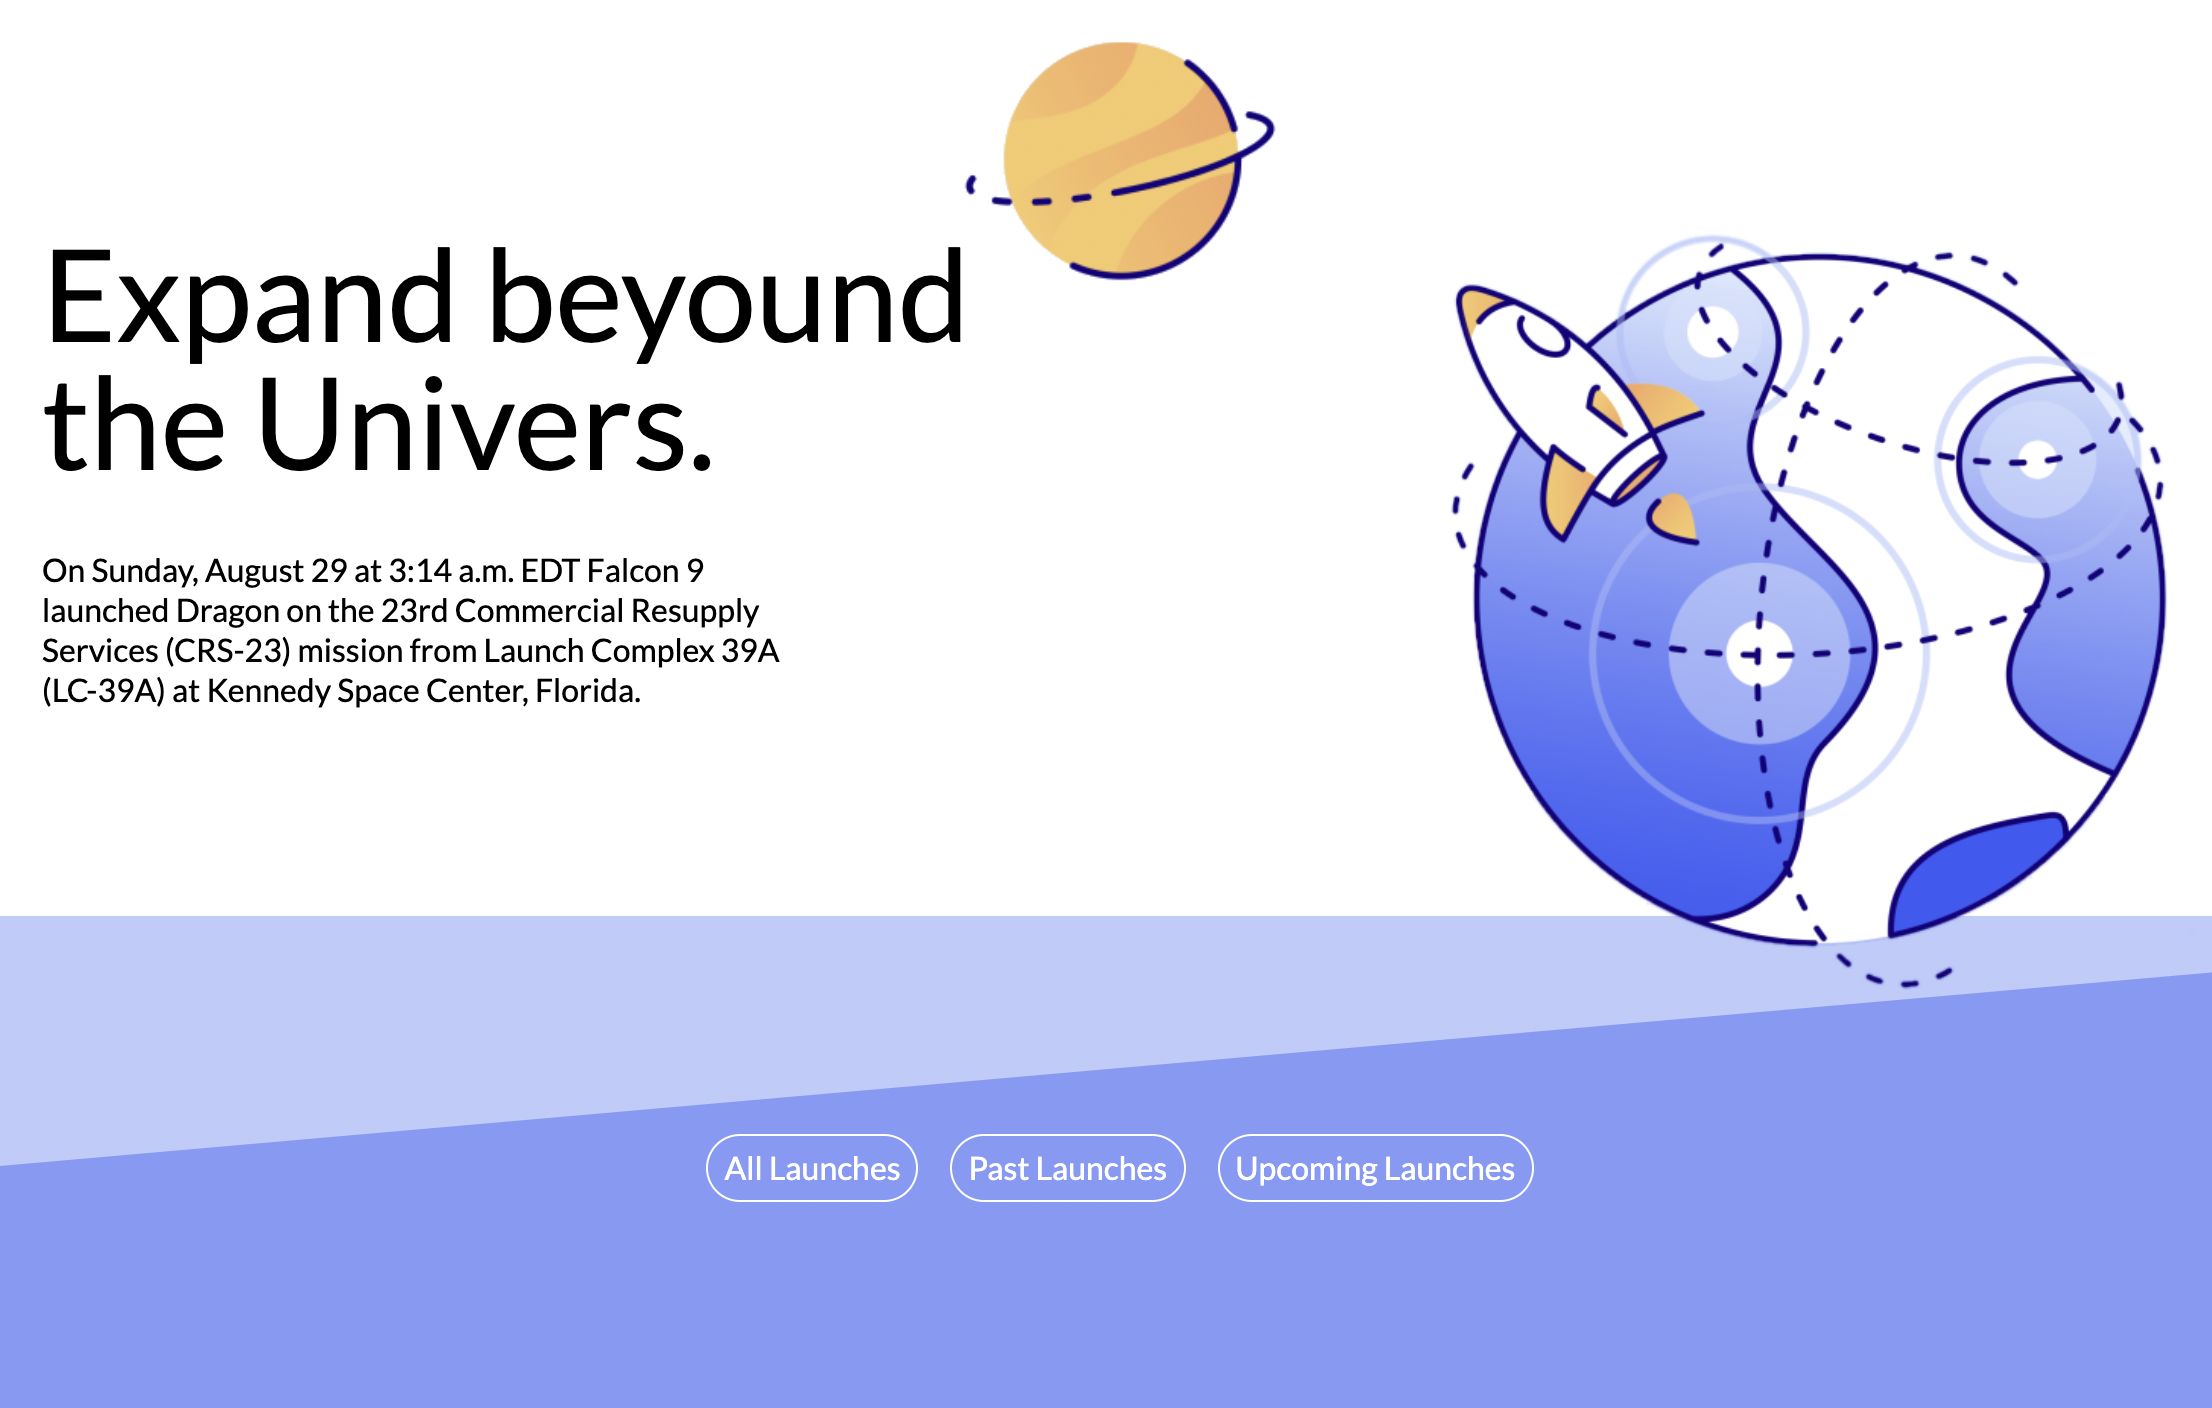
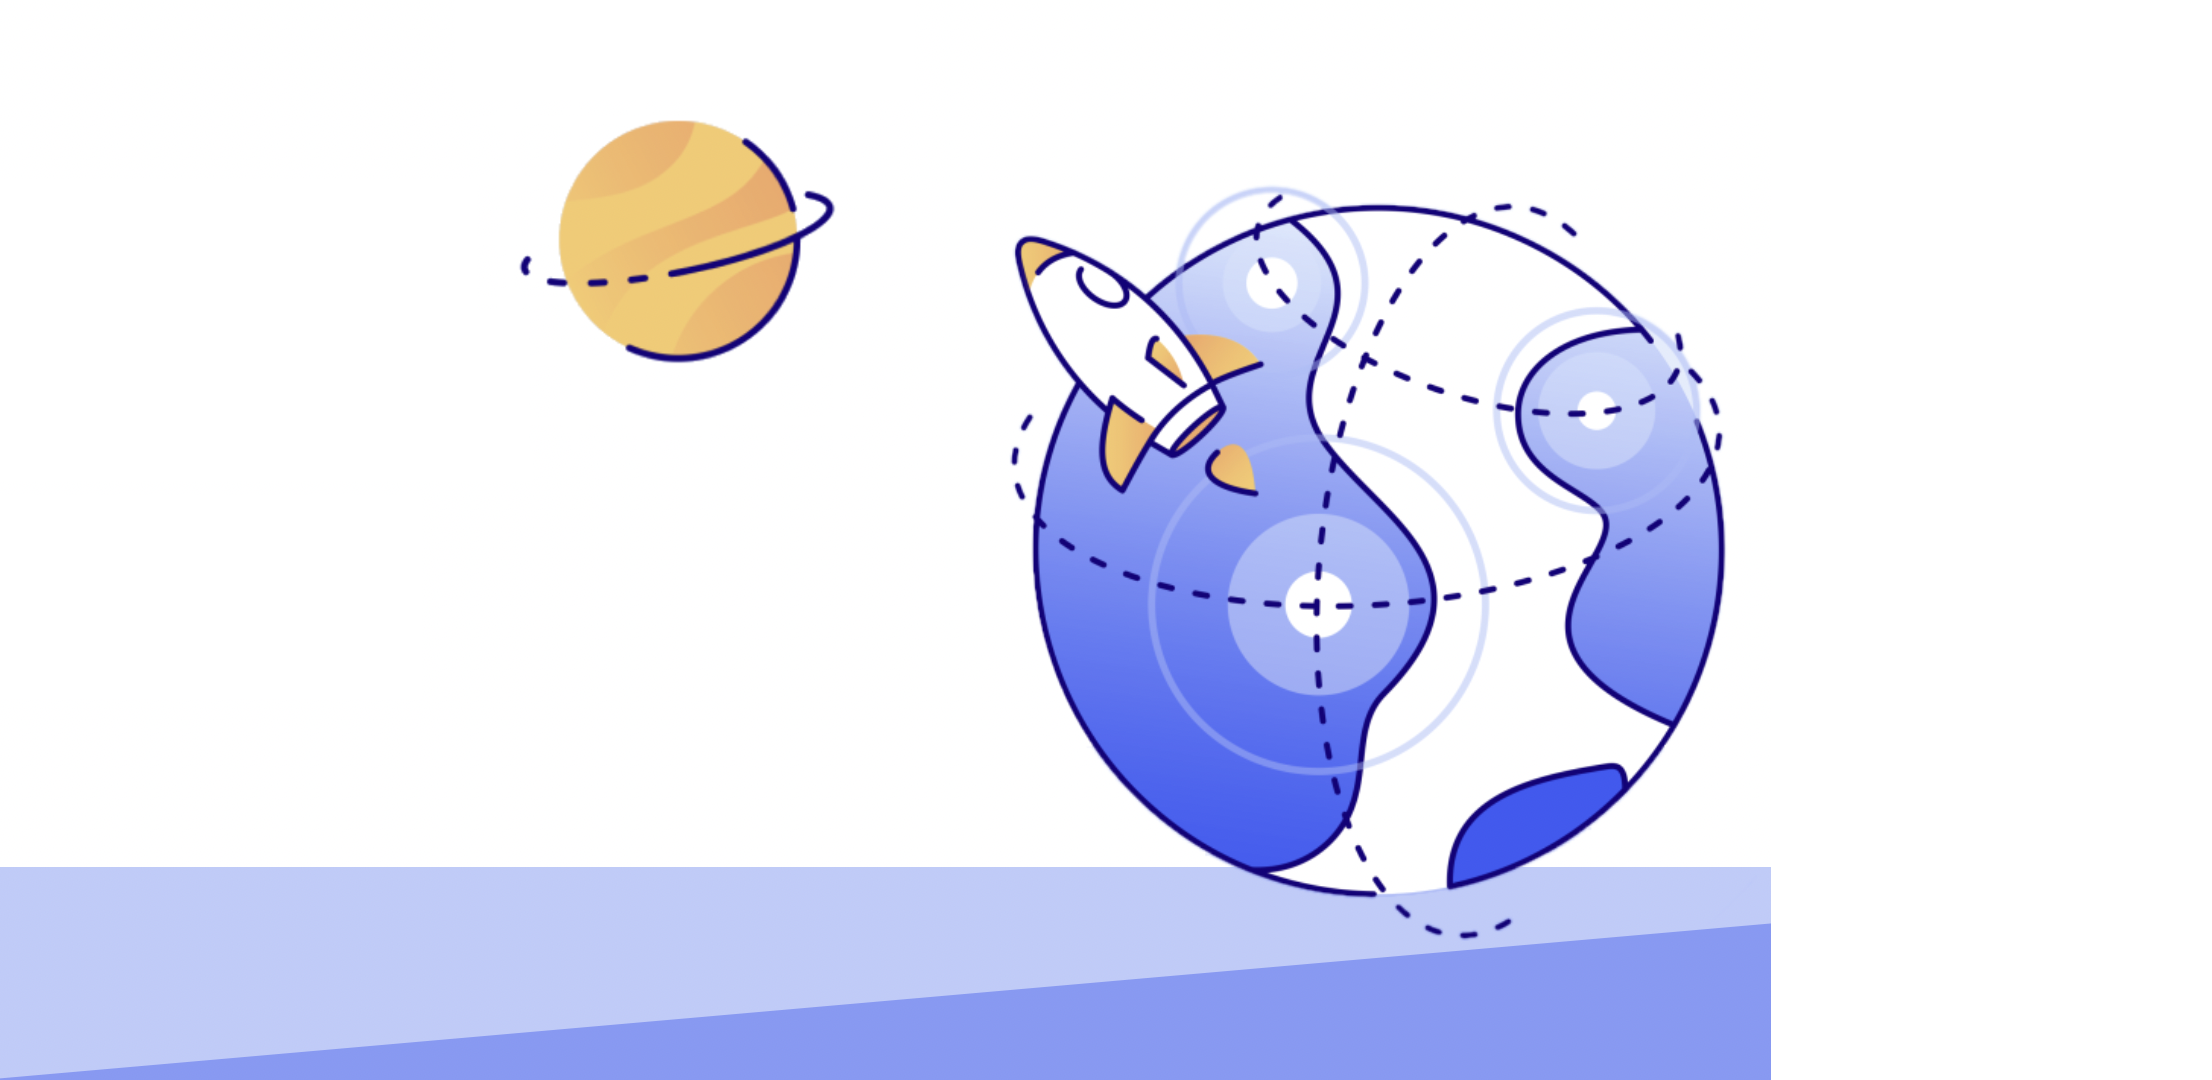
Updates personal location, timezone, and content

diff --git a/src/portal/pages.js b/src/portal/pages.js
@@ -14,7 +14,7 @@ function useLocalClock() {
     const update = () => {
       setTime(
         new Intl.DateTimeFormat("en-GB", {
-          timeZone: "Europe/Amsterdam",
+          timeZone: "Europe/Berlin",
           hour: "2-digit",
           minute: "2-digit",
           hour12: false
@@ -47,15 +47,15 @@ export function HomePage() {
       <section className="home-hero">
         <div className="availability-line">
           <span className="availability-dot" />
-          <span>Frontend engineer in the Netherlands</span>
-          <span className="local-time">AMS {time}</span>
+          <span>Frontend engineer in the Berlin</span>
+          <span className="local-time">BER {time}</span>
         </div>
         <div className="hero-title-wrap">
           <p className="hero-index">Portfolio / 2026</p>
           <h1>
             I build digital
             <br />
-            things people <em>want</em>
+            things people <br /><em>want</em>
             <br />
             to explore.
           </h1>
@@ -68,7 +68,7 @@ export function HomePage() {
         </div>
         <div className="hero-bottom">
           <p>
-            I&apos;m Saber Pourrahimi—an engineer who turns product ideas into
+            I&apos;m Saber Pourrahimi an engineer who turns product ideas into
             clear, responsive, and slightly unexpected web experiences.
           </p>
           <div className="hero-actions">
